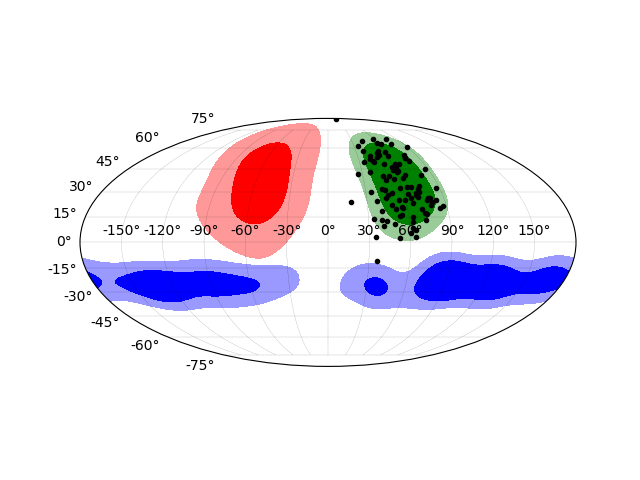
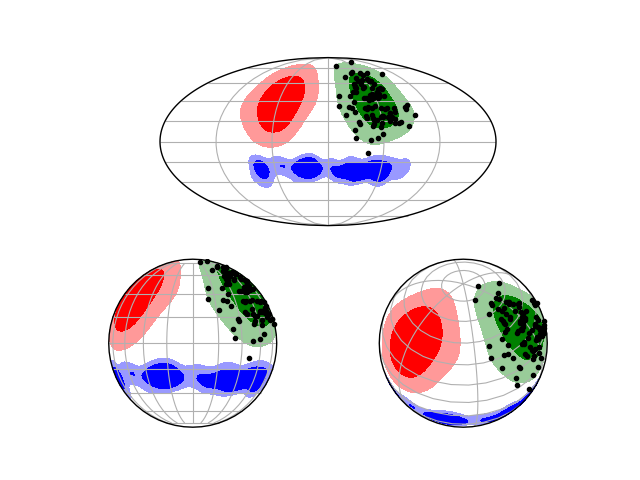
Upgraded to cartopy

diff --git a/main.py b/main.py
@@ -1,34 +1,47 @@
 import numpy
 from spherical_kde.kde import SphericalKDE
-from spherical_kde.utils import polar_to_decra, decra_to_polar
+import matplotlib.pyplot as plt
+import cartopy.crs as ccrs
+from matplotlib.gridspec import GridSpec, GridSpecFromSubplotSpec
 
-# Generate some samples centered on (1,1)
+fig = plt.figure()
+gs_vert = GridSpec(2, 1)
+gs_lower = GridSpecFromSubplotSpec(1, 2, subplot_spec=gs_vert[1])
+ax_mollweide = fig.add_subplot(gs_vert[0], projection=ccrs.Mollweide())
+fig.add_subplot(gs_lower[0], projection=ccrs.Orthographic())
+fig.add_subplot(gs_lower[1], projection=ccrs.Orthographic(-10, 45))
+
 nsamples = 100
-theta_samples = numpy.random.normal(loc=1,scale=0.3,size=nsamples)
-phi_samples = numpy.random.normal(loc=1,scale=0.3,size=nsamples)
-phi_samples = numpy.mod(phi_samples,numpy.pi*2)
+pi = numpy.pi
 
-kde_0 = SphericalKDE(phi_samples, theta_samples)
+# Generate some samples centered on (1,1) +/- 0.3 radians
+theta_samples = numpy.random.normal(loc=1, scale=0.3, size=nsamples)
+phi_samples = numpy.random.normal(loc=1, scale=0.3, size=nsamples)
+phi_samples = numpy.mod(phi_samples, pi*2)
+kde_green = SphericalKDE(phi_samples, theta_samples)
 
-# Plot green contours
-fig, ax = kde_0.plot('g')
+# Generate some samples centered on (-1,1) +/- 0.3 radians
+theta_samples = numpy.random.normal(loc=1, scale=0.3, size=nsamples)
+phi_samples = numpy.random.normal(loc=-1, scale=0.3, size=nsamples)
+phi_samples = numpy.mod(phi_samples, pi*2)
+kde_red = SphericalKDE(phi_samples, theta_samples)
 
-# Plot the actual samples on top
-ra_samples, dec_samples = polar_to_decra(kde_0.phi, kde_0.theta)
-ax.plot(ra_samples, dec_samples, 'k.')
+# Generate a spread of samples along latitude -2, height 0.1
+theta_samples = numpy.random.normal(loc=2, scale=0.1, size=nsamples)
+phi_samples = numpy.random.uniform(low=-pi/2, high=pi/2, size=nsamples)
+phi_samples = numpy.mod(phi_samples, pi*2)
+kde_blue = SphericalKDE(phi_samples, theta_samples, bandwidth=0.1)
 
-# Generate some more samples and plot on the same axis in red
-phi_samples = numpy.random.normal(loc=-1,scale=0.3,size=nsamples)
-phi_samples = numpy.mod(phi_samples,numpy.pi*2)
-kde_1 = SphericalKDE(phi_samples, theta_samples)
-kde_1.plot('r', ax=ax)
+# extract the green sample points
+ra_samples, dec_samples = kde_green.decra_samples()
 
-
-# Generate different samples in blue
-theta_samples = numpy.random.normal(loc=2,scale=0.1,size=nsamples)
-phi_samples = numpy.random.rand(nsamples)*numpy.pi*2
-kde_2 = SphericalKDE(phi_samples, theta_samples)
-kde_2.plot('b', ax=ax)
+for ax in fig.axes:
+    ax.set_global()
+    ax.gridlines()
+    kde_green.plot(ax, 'g')
+    kde_red.plot(ax, 'r')
+    kde_blue.plot(ax, 'b')
+    ax.plot(ra_samples, dec_samples, 'k.', transform=ccrs.PlateCarree())
 
 # Save to plot
 fig.savefig('plot.png')

diff --git a/spherical_kde/kde.py b/spherical_kde/kde.py
@@ -4,6 +4,8 @@ from scipy.special import logsumexp
 import numpy
 from spherical_kde.distributions import VMF
 from spherical_kde.utils import polar_to_decra, decra_to_polar
+import cartopy.crs as ccrs
+
 
 class SphericalKDE(object):
     def __init__(self, phi_samples, theta_samples, weights=None, bandwidth=0.2):
@@ -31,19 +33,14 @@ class SphericalKDE(object):
         return logsumexp(VMF(phi, theta, self.phi, self.theta, self.bandwidth),
                          axis=-1, b=self.weights)
 
-    def plot(self,colour='g', ax=None):
+    def plot(self, ax, colour='g'):
+        if not isinstance(ax.projection, ccrs.Projection):
+            raise TypeError("ax.projection must be of type ccrs.Projection "
+                            "({})".format(type(ax.projection)))
 
-        # Set up the figure if it's not provided
-        if ax is None:
-            fig = plt.figure()
-            ax = fig.add_subplot(111, projection='mollweide')
-            ax.grid(color='k', linestyle='--', linewidth=0.1)
-        else:
-            fig = ax.figure
-
-        # Compute the kernel density estimate of the probability
-        ra = numpy.linspace(-numpy.pi, numpy.pi, self.nphi)
-        dec = numpy.linspace(-numpy.pi/2, numpy.pi/2, self.ntheta)
+        # Compute the kernel density estimate of the probability on an equiangular grid
+        ra = numpy.linspace(-180, 180, self.nphi)
+        dec = numpy.linspace(-90, 90, self.ntheta)
         X, Y = numpy.meshgrid(ra, dec)
         phi, theta = decra_to_polar(X, Y)
         P = numpy.exp(self(phi, theta)) 
@@ -54,9 +51,9 @@ class SphericalKDE(object):
         cdf = self.weights[i].cumsum()
         levels = [Ps[i[numpy.argmin(cdf<f)]] for f in [0.05, 0.33]] + [numpy.inf]
 
-        ax.contourf(X, Y, P, levels=levels, colors=self.colours(colour))
-
-        return fig, ax
+        # Plot the countours on a suitable equiangular projection
+        ax.contourf(X, Y, P, levels=levels, colors=self.colours(colour), 
+                    transform=ccrs.PlateCarree())
 
     def colours(self, colour):
         cols = [matplotlib.colors.colorConverter.to_rgb(colour)]

diff --git a/setup.py b/setup.py
@@ -8,12 +8,12 @@ except (IOError, ImportError):
     long_description = ''
 
 setup(name='spherical_kde',
-      version='0.0.0',
+      version='0.0.1',
       author='Will Handley',
       author_email='wh260@cam.ac.uk',
       url='https://github.com/williamjameshandley/spherical_kde',
       packages=['spherical_kde'],
-      install_requires=['numpy','matplotlib','scipy'],
+      install_requires=['numpy','matplotlib','scipy','cartopy'],
       license='MIT',
       classifiers=[
       'Development Status :: 3 - Alpha',

diff --git a/spherical_kde/utils.py b/spherical_kde/utils.py
@@ -8,15 +8,15 @@ def cartesian_from_spherical(phi, theta):
 
 
 def decra_to_polar(ra, dec):
-    phi = numpy.mod(ra,2*numpy.pi)
-    theta = numpy.pi/2-dec
+    phi = numpy.mod(ra/180.*numpy.pi,2*numpy.pi)
+    theta = numpy.pi/2-dec/180.*numpy.pi
     return phi, theta
 
 
 def polar_to_decra(phi, theta):
     ra = phi * (phi<numpy.pi) +  (phi-2*numpy.pi)*(phi>numpy.pi)
     dec = numpy.pi/2-theta
-    return ra, dec
+    return ra/numpy.pi*180, dec/numpy.pi*180
 
 
 def infinite_sum(f, i0=0, eps=1e-8):

diff --git a/README.md b/README.md
@@ -18,44 +18,56 @@ Example Usage
 ```python
 import numpy
 from spherical_kde.kde import SphericalKDE
-from spherical_kde.utils import polar_to_decra, decra_to_polar
+import matplotlib.pyplot as plt
+import cartopy.crs as ccrs
+from matplotlib.gridspec import GridSpec, GridSpecFromSubplotSpec
 
-# Generate some samples centered on (1,1)
+fig = plt.figure()
+gs_vert = GridSpec(2, 1)
+gs_lower = GridSpecFromSubplotSpec(1, 2, subplot_spec=gs_vert[1])
+ax_mollweide = fig.add_subplot(gs_vert[0], projection=ccrs.Mollweide())
+fig.add_subplot(gs_lower[0], projection=ccrs.Orthographic())
+fig.add_subplot(gs_lower[1], projection=ccrs.Orthographic(-10, 45))
+
 nsamples = 100
-theta_samples = numpy.random.normal(loc=1,scale=0.3,size=nsamples)
-phi_samples = numpy.random.normal(loc=1,scale=0.3,size=nsamples)
-phi_samples = numpy.mod(phi_samples,numpy.pi*2)
+pi = numpy.pi
 
-kde_0 = SphericalKDE(phi_samples, theta_samples)
+# Generate some samples centered on (1,1) +/- 0.3 radians
+theta_samples = numpy.random.normal(loc=1, scale=0.3, size=nsamples)
+phi_samples = numpy.random.normal(loc=1, scale=0.3, size=nsamples)
+phi_samples = numpy.mod(phi_samples, pi*2)
+kde_green = SphericalKDE(phi_samples, theta_samples)
 
-# Plot green contours
-fig, ax = kde_0.plot('g')
+# Generate some samples centered on (-1,1) +/- 0.3 radians
+theta_samples = numpy.random.normal(loc=1, scale=0.3, size=nsamples)
+phi_samples = numpy.random.normal(loc=-1, scale=0.3, size=nsamples)
+phi_samples = numpy.mod(phi_samples, pi*2)
+kde_red = SphericalKDE(phi_samples, theta_samples)
 
-# Plot the actual samples on top
-ra_samples, dec_samples = polar_to_decra(kde_0.phi, kde_0.theta)
-ax.plot(ra_samples, dec_samples, 'k.')
+# Generate a spread of samples along latitude -2, height 0.1
+theta_samples = numpy.random.normal(loc=2, scale=0.1, size=nsamples)
+phi_samples = numpy.random.uniform(low=-pi/2, high=pi/2, size=nsamples)
+phi_samples = numpy.mod(phi_samples, pi*2)
+kde_blue = SphericalKDE(phi_samples, theta_samples, bandwidth=0.1)
 
-# Generate some more samples and plot on the same axis in red
-phi_samples = numpy.random.normal(loc=-1,scale=0.3,size=nsamples)
-phi_samples = numpy.mod(phi_samples,numpy.pi*2)
-kde_1 = SphericalKDE(phi_samples, theta_samples)
-kde_1.plot('r', ax=ax)
+# extract the green sample points
+ra_samples, dec_samples = kde_green.decra_samples()
 
-
-# Generate different samples in blue
-theta_samples = numpy.random.normal(loc=2,scale=0.1,size=nsamples)
-phi_samples = numpy.random.rand(nsamples)*numpy.pi*2
-kde_2 = SphericalKDE(phi_samples, theta_samples)
-kde_2.plot('b', ax=ax)
+for ax in fig.axes:
+    ax.set_global()
+    ax.gridlines()
+    kde_green.plot(ax, 'g')
+    kde_red.plot(ax, 'r')
+    kde_blue.plot(ax, 'b')
+    ax.plot(ra_samples, dec_samples, 'k.', transform=ccrs.PlateCarree())
 
 # Save to plot
 fig.savefig('plot.png')
-
 ```
 ![](https://raw.github.com/williamjameshandley/spherical_kde/master/plot.png)
 
 To do
 -----
 * [ ] Bandwidth estimation
-* [ ] Other projections
-* [ ] Change centre of Mollweide projection
+* [x] Other projections
+* [x] Change centre of Mollweide projection
